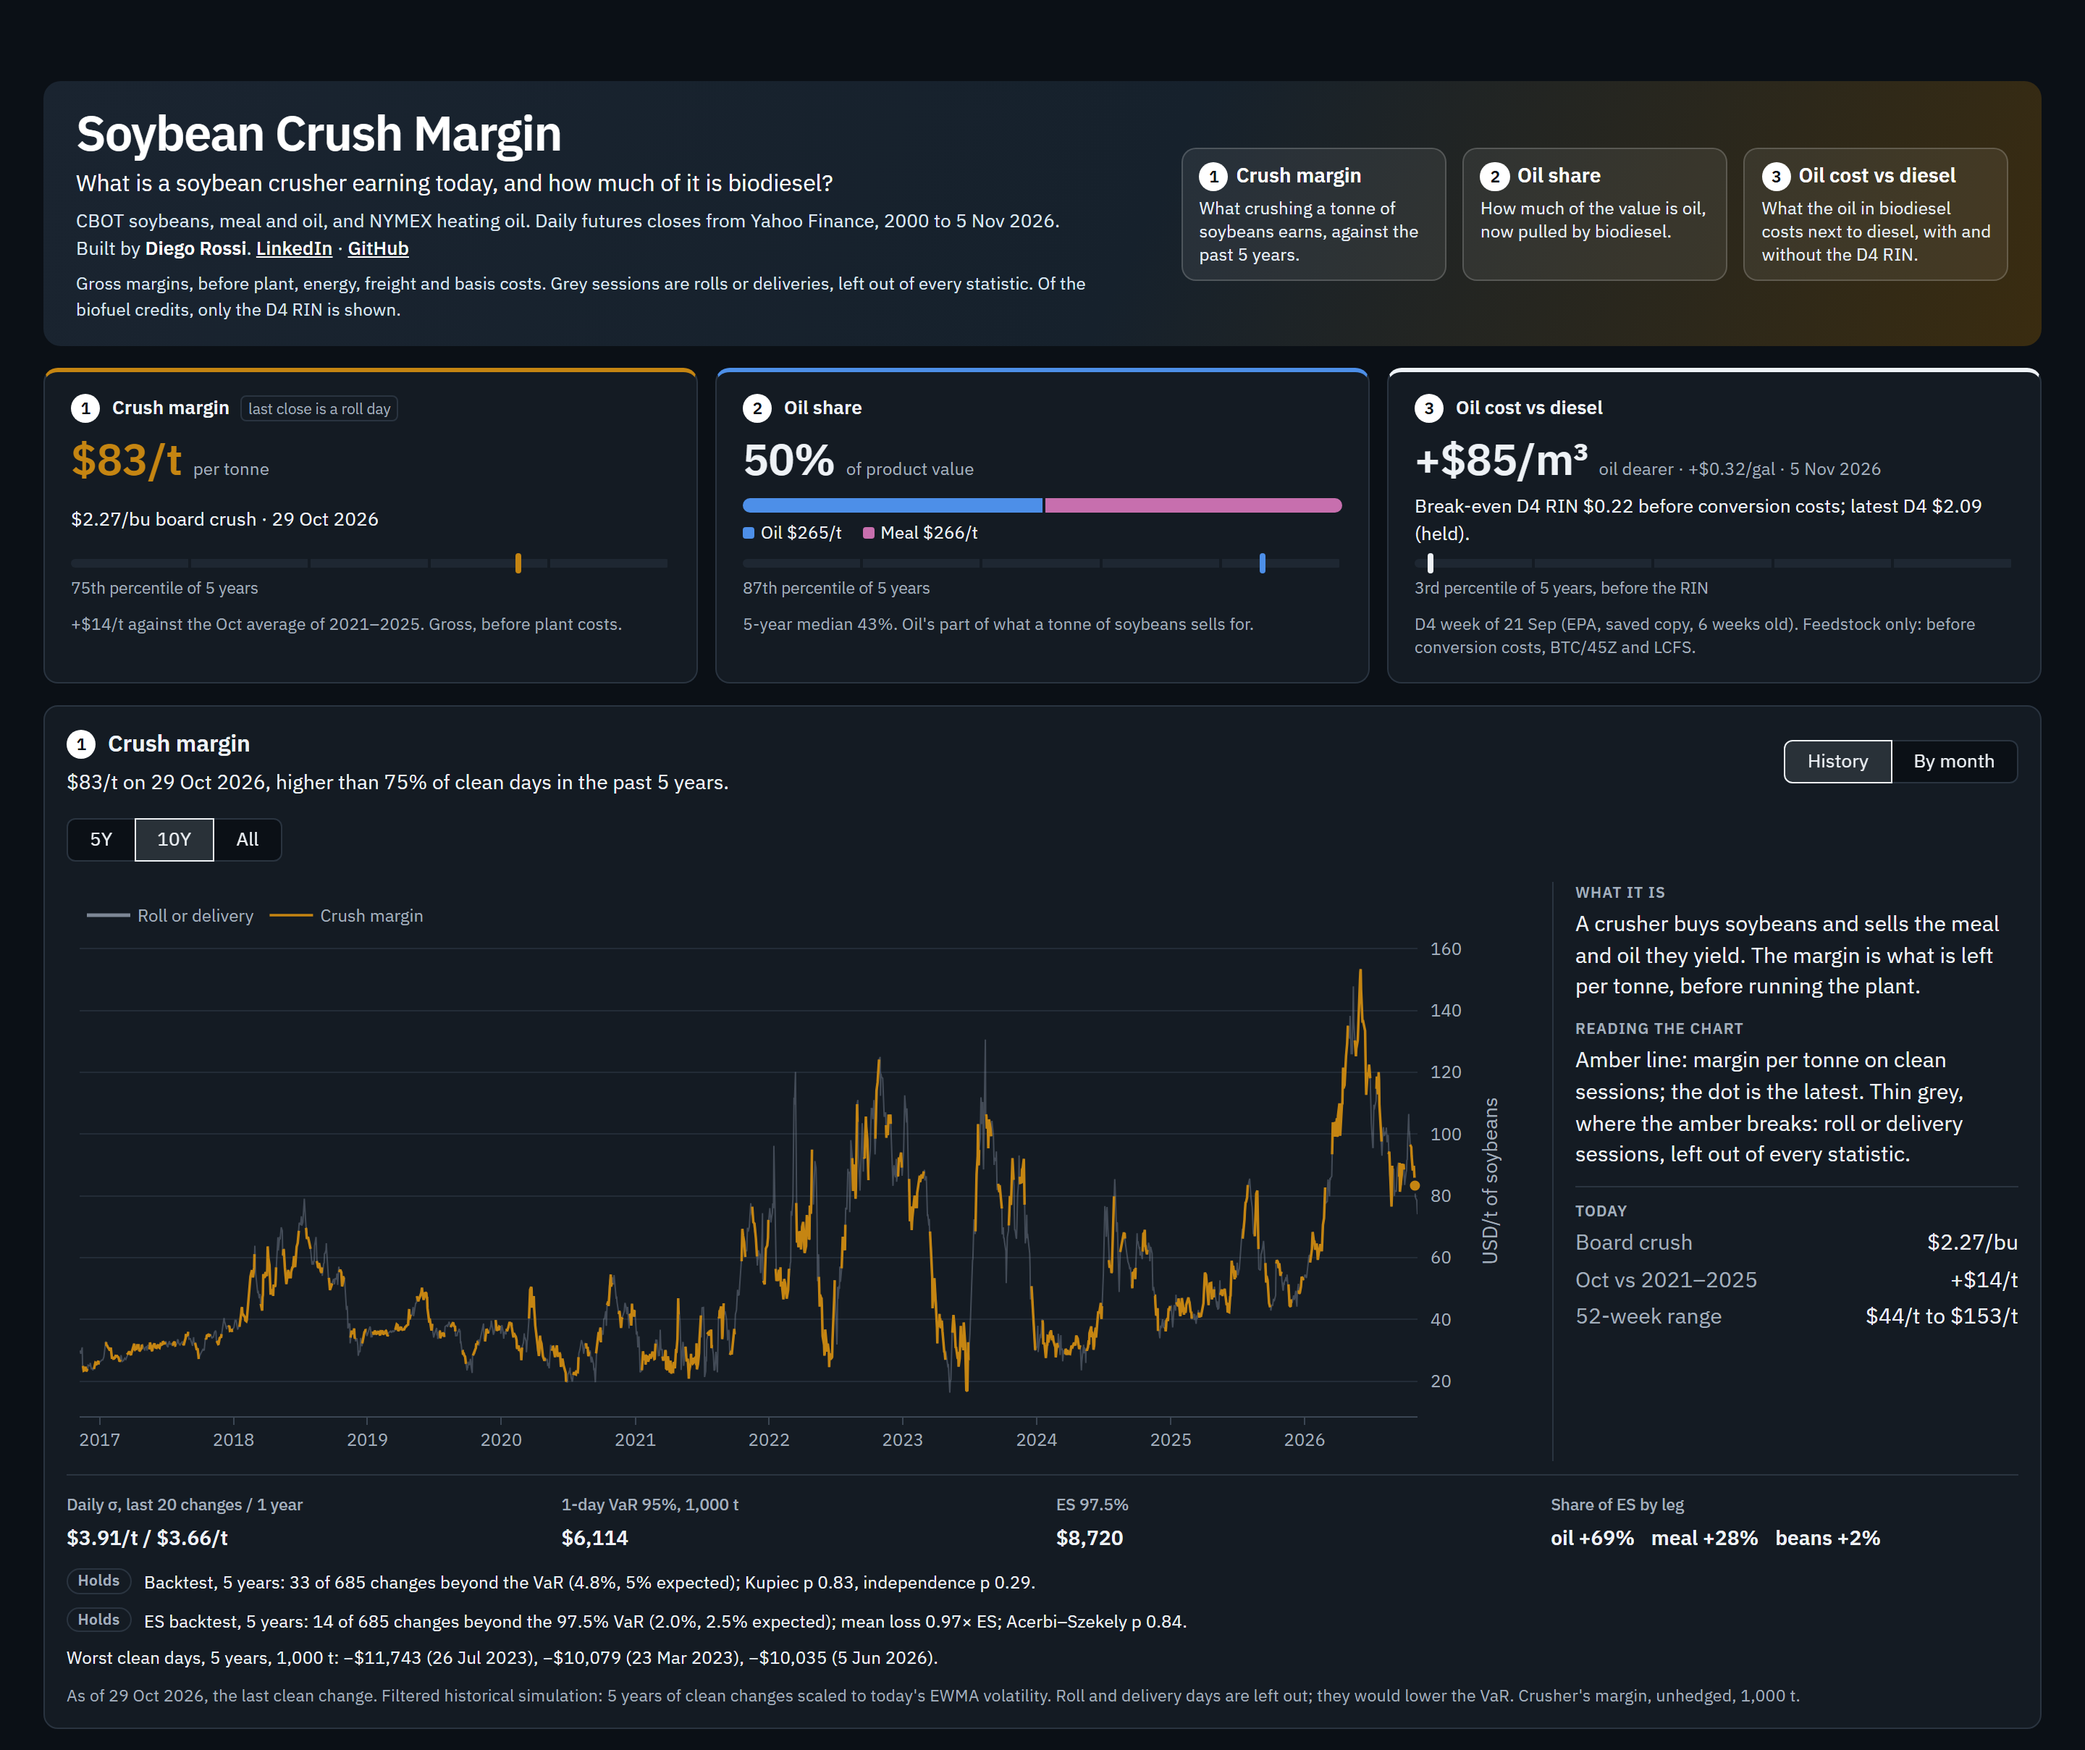
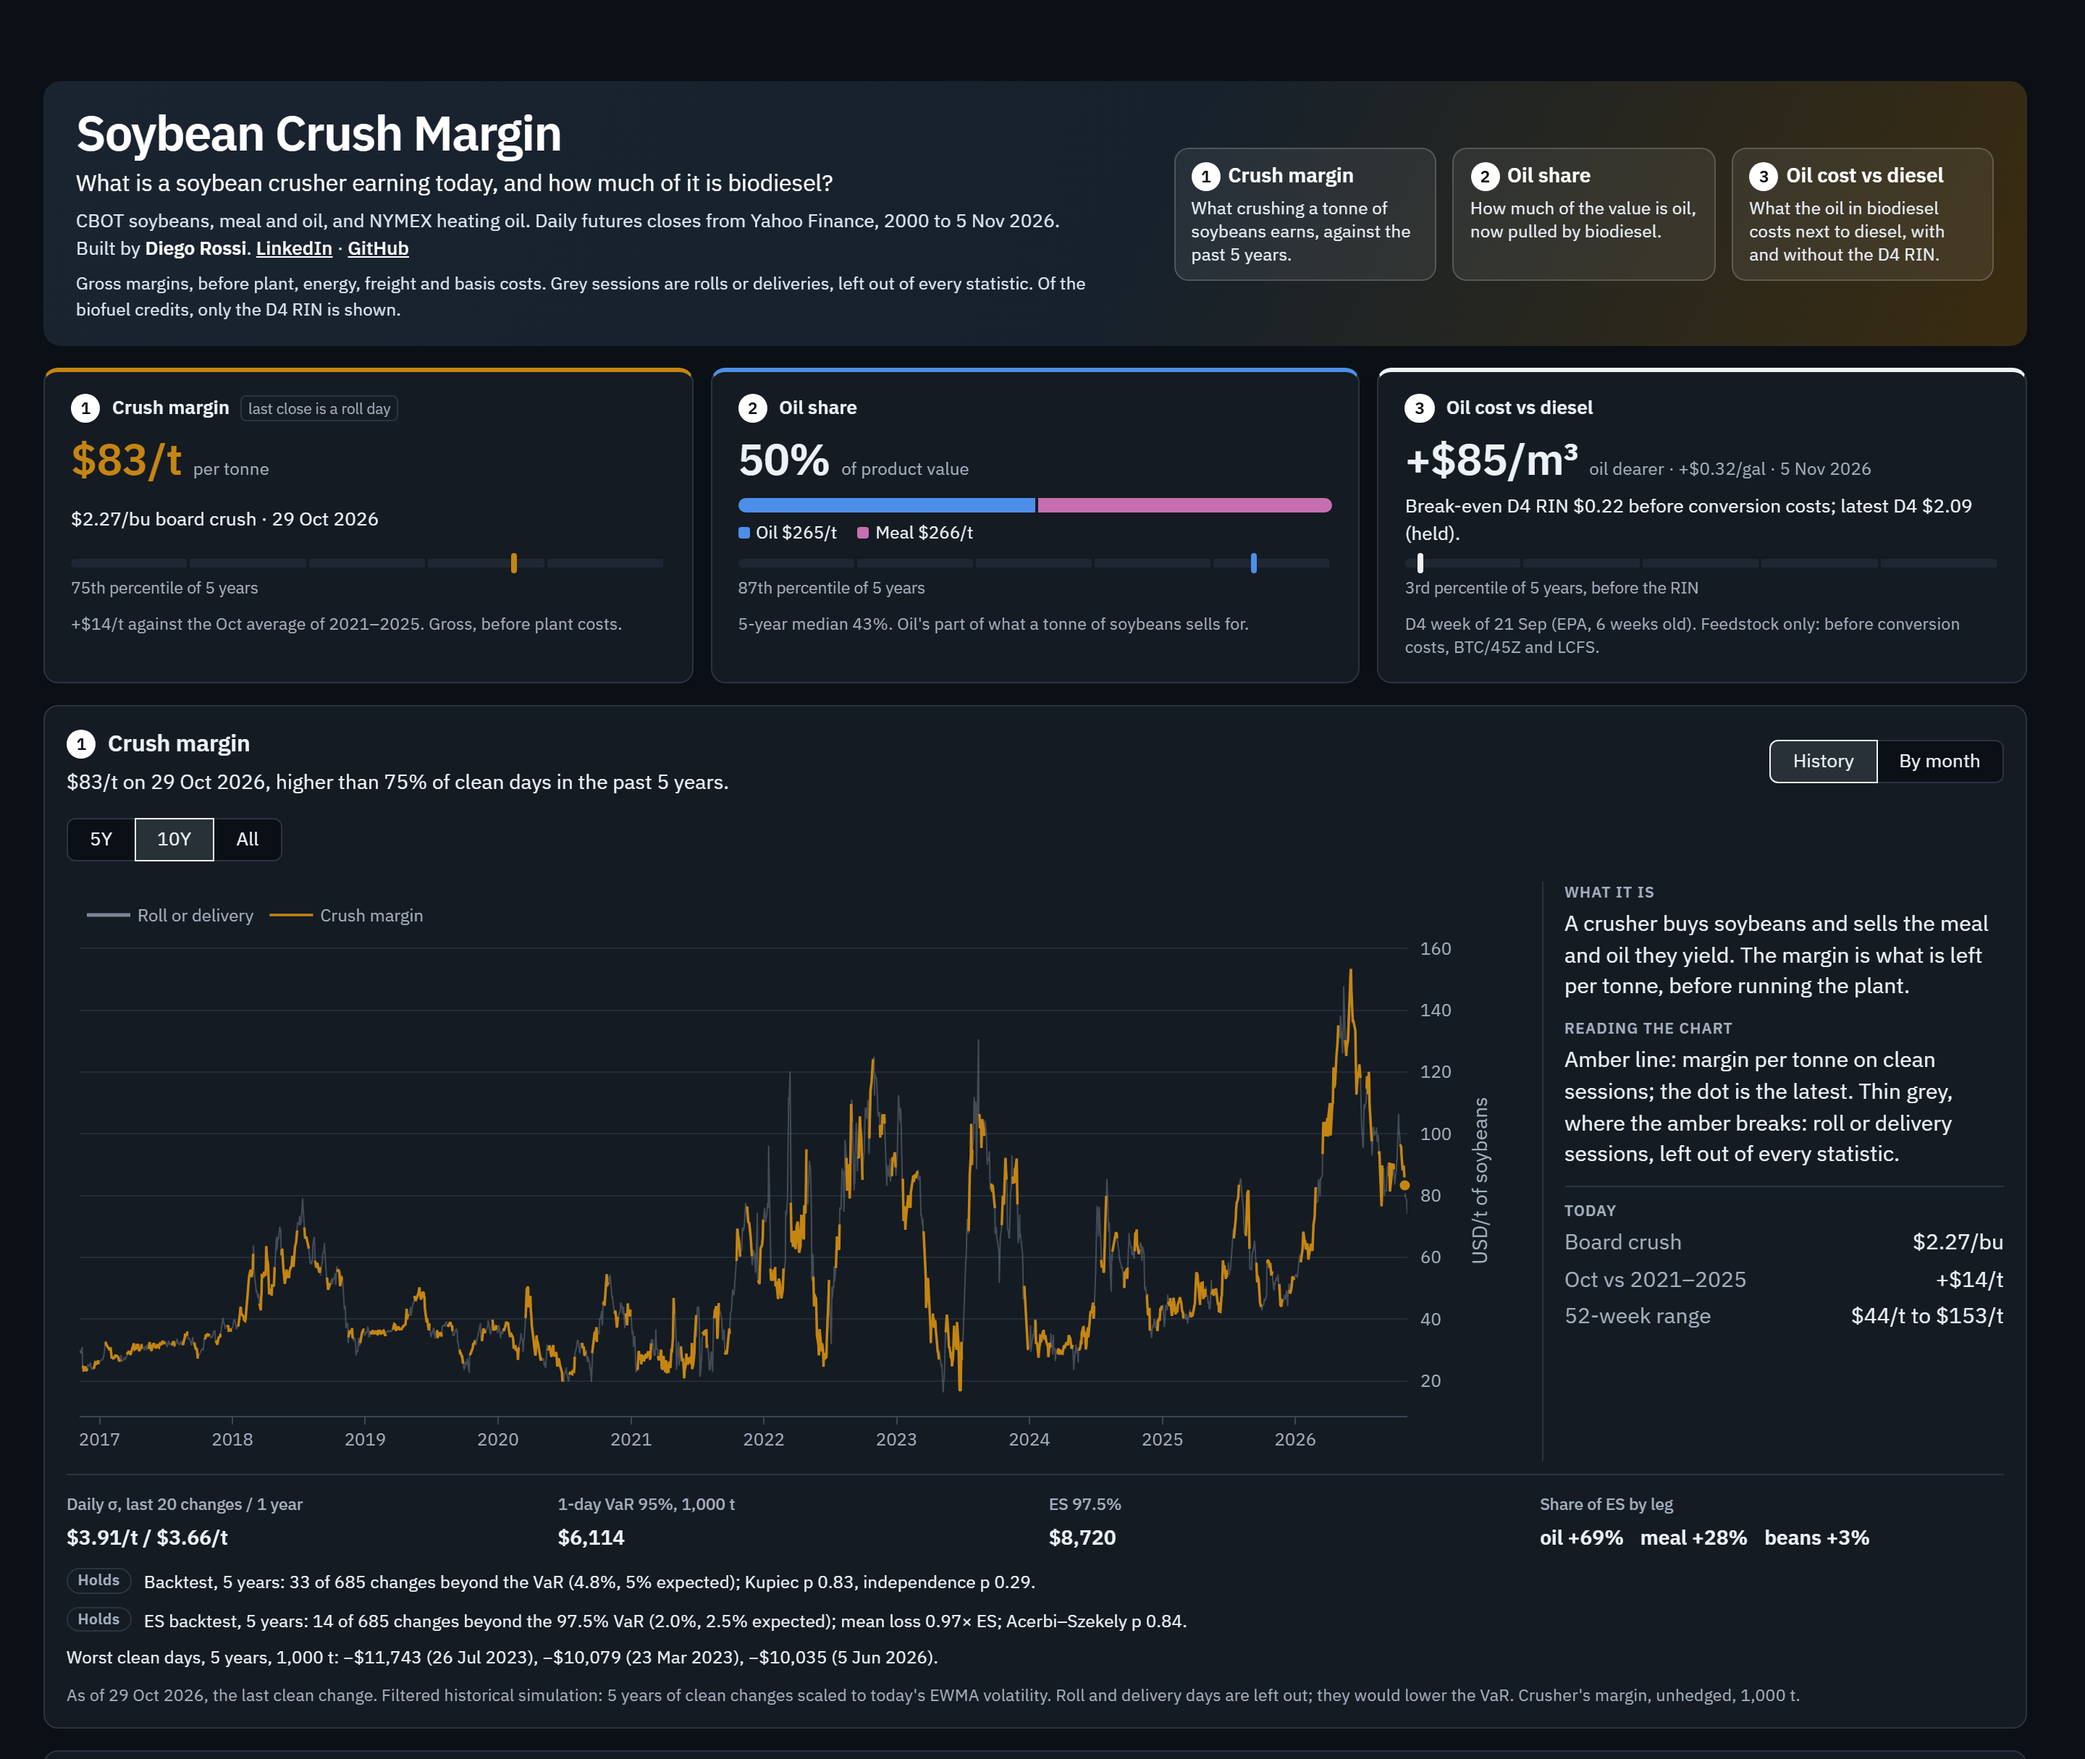
fix(ui): keep the oil cost card date on one line and refresh the README screenshot
Card 3's note joins its date with no-break spaces, so it never splits across lines beside the value. docs/screenshot.png is recaptured from the 5 Nov 2026 snapshot, showing the ES leg shares as rounded to 100%.

diff --git a/app.py b/app.py
@@ -227,13 +227,15 @@ def _kpis(
             detail = GAP_CARD["break_even"].format(be=break_even_d4(before.value), d4=d4, held=held)
         side = "dearer" if before.value >= 0 else "cheaper"
         gallon = _usd(per_gallon(before.value), "gal", signed=True, decimals=2)
+        # No-break spaces keep the date whole when the note wraps beside the value.
+        day = _day(before.date).replace(" ", " ")
         cards.append(
             Kpi(
                 key="gap",
                 number=3,
                 label="Oil cost vs diesel",
                 value=_usd(before.value, "m³", signed=True),
-                note=f"oil {side} · {gallon} · {_day(before.date)}",
+                note=f"oil {side} · {gallon} · {day}",
                 detail=detail,
                 percentile=before.percentile,
                 rank_of="before the RIN",

diff --git a/tests/test_app.py b/tests/test_app.py
@@ -311,6 +311,15 @@ class TestGapCard:
         assert card.count("/m³") == 1
         assert "D4 week of 21 Sep (EPA, saved copy, 6 weeks old). Feedstock only:" in card
 
+    def test_note_date_never_breaks(self, snapshot_app) -> None:
+        snapshot_app.run()
+        gap_card = _kpis(snapshot_app).split("cm-kpi-gap", 1)[1]
+        note = re.search(r'class="cm-value">[^<]*<small>([^<]*)</small>', gap_card)
+        assert note is not None
+        day = note.group(1).rsplit(" · ", 1)[1]
+        assert day == "5 Nov 2026"
+        assert " " not in day
+
     def test_oil_cheaper_than_heating_oil_needs_no_rin(self, tmp_path, monkeypatch) -> None:
         prices = read_snapshot(readme_figures.price_snapshot())
         prices["Heating Oil"] *= 3
